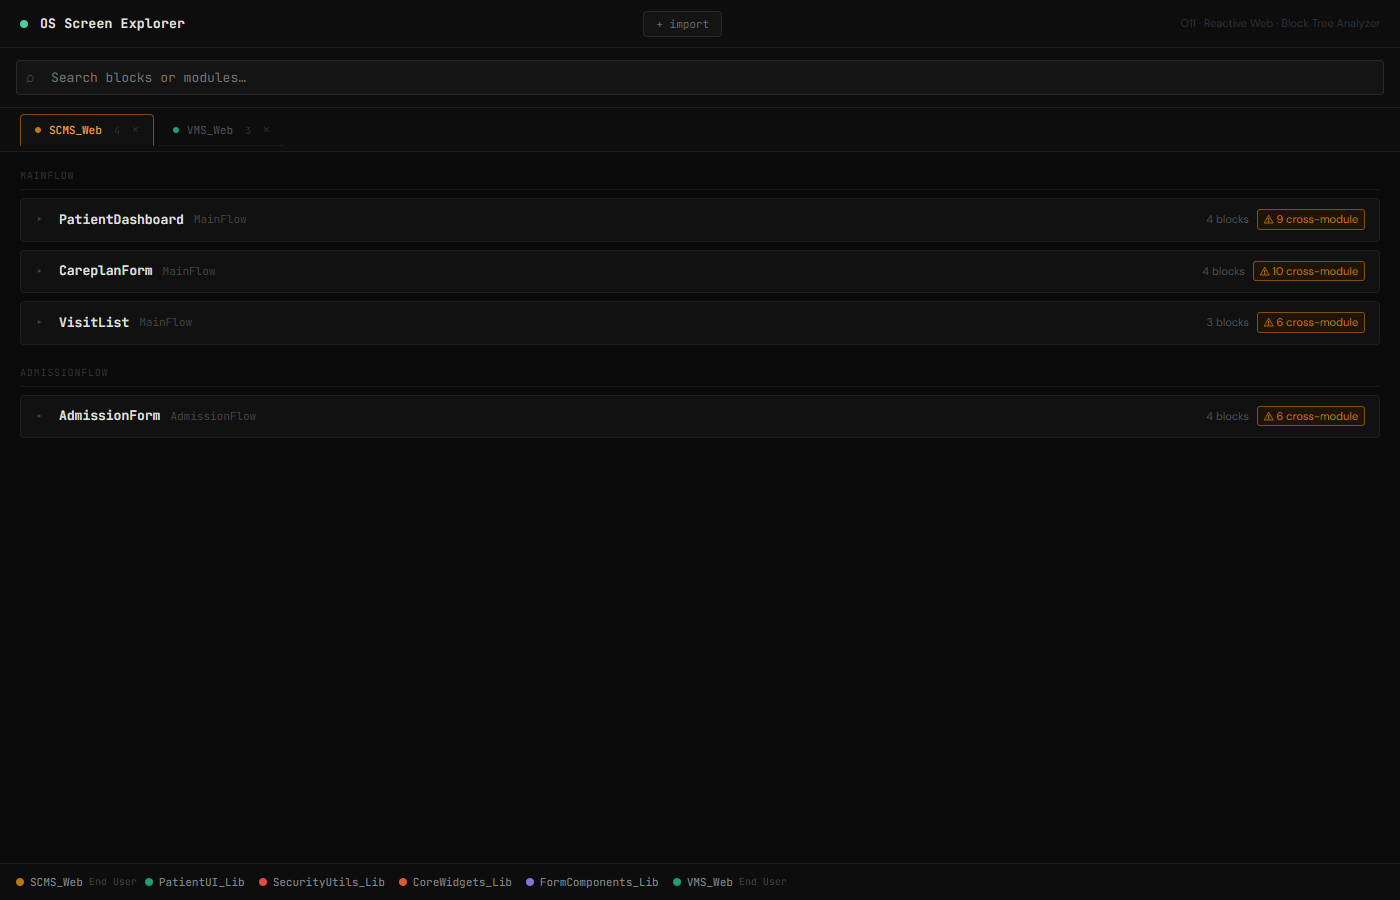
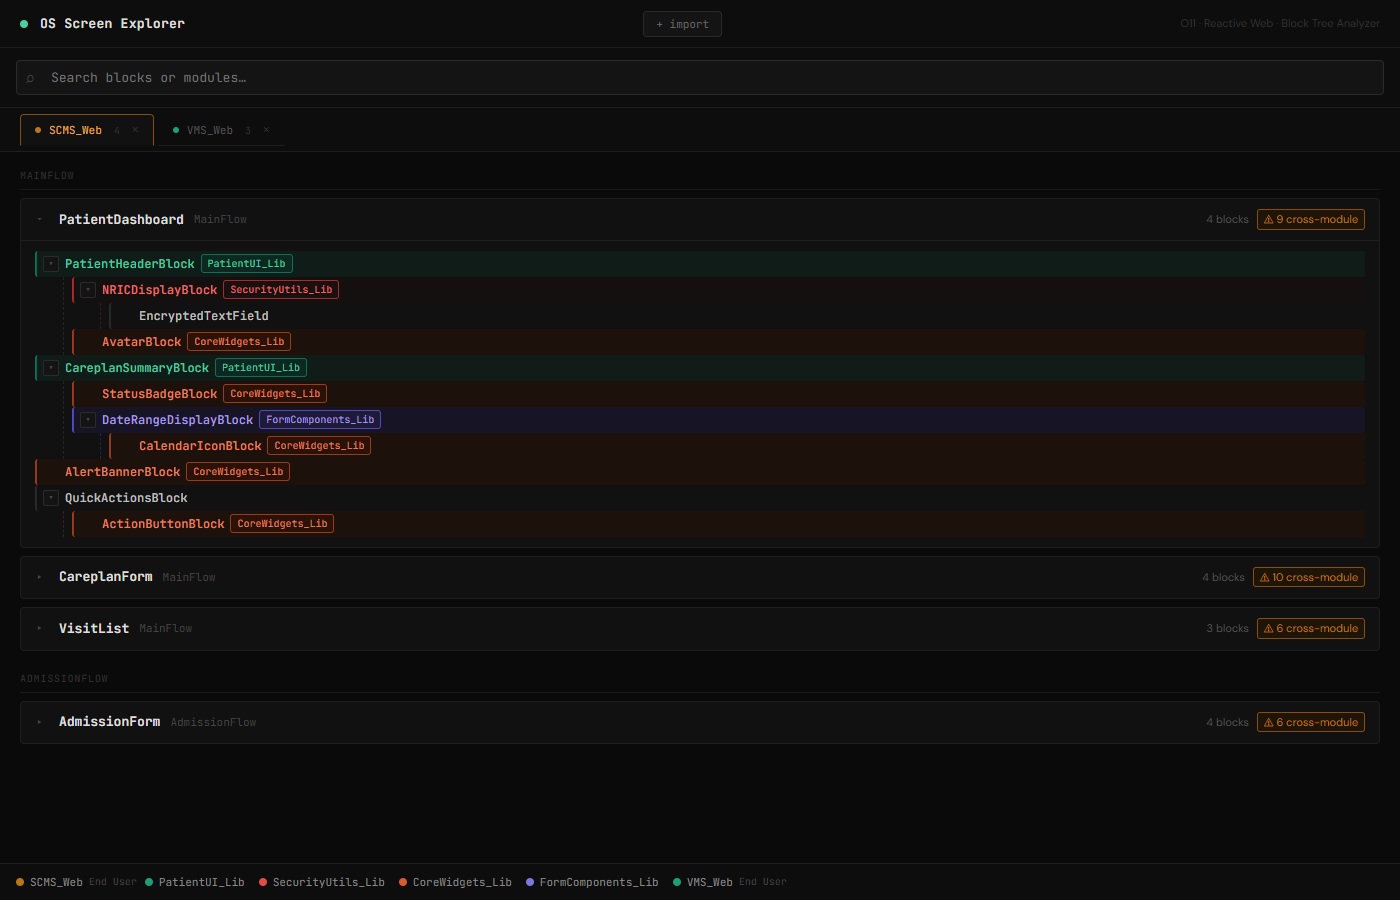
Fix XML parser for actual oml-utilities output format
The CLAUDE.md spec assumed <eSpace name="..."> root, but oml-utilities
actually outputs <OML><eSpaceFragment FragmentName="..."> fragments.

Key changes:
- parseOmlXml.js: complete rewrite to handle fragment-based format
  - Module name derived from filename (not present in XML)
  - Screens via NRNodes.WebScreen in NodesShownInESpaceTree# fragments
  - Local block names via NRNodes.WebBlock keys
  - Cross-module block names via NewRuntime.ReferenceWebBlock (not ReferenceWebBlock)
  - Module names via Reference.Key → Reference.Name from References fragment
  - Block usage via NRWebWidgets.WebBlockInstance.SourceWebBlock attribute
  - Iterates ALL NodesShownInESpaceTree# fragments (some flows not in NRWebFlows)
  - Recursion uses block definition key, not widget instance key
  - Keeps legacy eSpace-root format handling as fallback
- ImportPanel.jsx: pass filename to parseOmlXml() for module name resolution
- drive.mjs: fix screen card expand selector to use ▸ toggle span
- Updated screenshots showing working block tree visualization

diff --git a/src/lib/parseOmlXml.js b/src/lib/parseOmlXml.js
@@ -6,26 +6,218 @@ export function inferType(moduleName) {
   return 'End User'
 }
 
-function getTextContent(parent, tagName) {
-  const el = parent.querySelector(tagName)
-  return el ? el.textContent.trim() : null
+// ── Path parsing helpers ───────────────────────────────────────────────────────
+
+// "NRNodes.WebBlock:/NRWebFlows.ABC/NodesShownInESpaceTree.XYZ"
+//   → { type: 'local', flowKey: 'ABC', nodeKey: 'XYZ' }
+// "NewRuntime.ReferenceWebBlock:/References.ABC/ReferenceNRWebFlows.DEF/ReferenceWebBlocks.XYZ"
+//   → { type: 'ref', refKey: 'ABC', rbKey: 'XYZ' }
+function parseSourceWebBlock(src) {
+  if (!src) return null
+  const refMatch = src.match(/NewRuntime\.ReferenceWebBlock:\/References\.([^/]+)\/ReferenceNRWebFlows\.[^/]+\/ReferenceWebBlocks\.(.+)$/)
+  if (refMatch) return { type: 'ref', refKey: refMatch[1], rbKey: refMatch[2] }
+  const localMatch = src.match(/NRNodes\.WebBlock:\/NRWebFlows\.([^/]+)\/NodesShownInESpaceTree\.(.+)$/)
+  if (localMatch) return { type: 'local', flowKey: localMatch[1], nodeKey: localMatch[2] }
+  return null
 }
 
-function buildRefMap(doc) {
+// ── Fragment extraction ────────────────────────────────────────────────────────
+
+function getFragments(doc) {
+  const frags = {}
+  const all = doc.querySelectorAll('eSpaceFragment')
+  for (const f of all) {
+    const name = f.getAttribute('FragmentName')
+    if (name) frags[name] = f
+  }
+  return frags
+}
+
+// ── Map builders ──────────────────────────────────────────────────────────────
+
+function buildFlowMap(frags) {
+  // flowKey → flowName
+  const map = {}
+  const frag = frags['NRWebFlows']
+  if (!frag) return map
+  for (const el of frag.children) {
+    const key = el.getAttribute('Key')
+    const name = el.getAttribute('Name')
+    if (key && name) map[key] = name
+  }
+  return map
+}
+
+function buildLocalNodeMap(frags) {
+  // nodeKey → { name, type: 'Screen'|'Block', flowKey }
+  const map = {}
+  for (const [fragName, frag] of Object.entries(frags)) {
+    if (!fragName.startsWith('NodesShownInESpaceTree#')) continue
+    const flowKey = fragName.slice('NodesShownInESpaceTree#'.length)
+    for (const el of frag.children) {
+      const tag = el.tagName
+      if (tag !== 'NRNodes.WebScreen' && tag !== 'NRNodes.WebBlock') continue
+      const key = el.getAttribute('Key')
+      const name = el.getAttribute('Name')
+      if (key && name) map[key] = { name, type: tag === 'NRNodes.WebScreen' ? 'Screen' : 'Block', flowKey }
+    }
+  }
+  return map
+}
+
+function buildRefModuleMap(frags) {
+  // refKey → moduleName
+  const map = {}
+  const refFrag = frags['References']
+  if (!refFrag) return map
+  for (const ref of refFrag.children) {
+    const key = ref.getAttribute('Key')
+    const name = ref.getAttribute('Name')
+    if (key && name) map[key] = name
+  }
+  return map
+}
+
+function buildRefBlockMap(frags) {
+  // rbKey → blockName  (elements are NewRuntime.ReferenceWebBlock)
+  const map = {}
+  const refFrag = frags['References']
+  if (!refFrag) return map
+  for (const rwb of refFrag.getElementsByTagName('NewRuntime.ReferenceWebBlock')) {
+    const key = rwb.getAttribute('Key')
+    const name = rwb.getAttribute('Name') || rwb.getAttribute('OriginalName')
+    if (key && name) map[key] = name
+  }
+  return map
+}
+
+// ── Block extraction ──────────────────────────────────────────────────────────
+
+function extractBlockInstances(nodeKey, frags, localNodeMap, refModuleMap, refBlockMap, moduleName, visited = new Set()) {
+  if (visited.has(nodeKey)) return []
+  const widgetFrag = frags[`Widgets#${nodeKey}`]
+  if (!widgetFrag) return []
+
+  const results = []
+  const instances = widgetFrag.getElementsByTagName('NRWebWidgets.WebBlockInstance')
+
+  for (const inst of instances) {
+    const src = inst.getAttribute('SourceWebBlock')
+    const parsed = parseSourceWebBlock(src)
+    if (!parsed) continue
+
+    let blockName = null
+    let sourceModule = null
+
+    if (parsed.type === 'local') {
+      const node = localNodeMap[parsed.nodeKey]
+      blockName = node ? node.name : `[block:${parsed.nodeKey.slice(0, 8)}]`
+      sourceModule = moduleName
+    } else {
+      sourceModule = refModuleMap[parsed.refKey] || `[module:${parsed.refKey.slice(0, 8)}]`
+      blockName = refBlockMap[parsed.rbKey] || null
+      // If block name unknown, skip system UI components silently or show module-scoped fallback
+      if (!blockName) continue
+    }
+
+    // For local blocks, recurse into the block's own Widgets# fragment using its definition key.
+    // For cross-module blocks, the definition lives in another module's XML — no recursion possible.
+    const recurseKey = parsed.type === 'local' ? parsed.nodeKey : null
+    const childVisited = new Set(visited)
+    childVisited.add(nodeKey)
+    const nestedBlocks = recurseKey
+      ? extractBlockInstances(recurseKey, frags, localNodeMap, refModuleMap, refBlockMap, sourceModule, childVisited)
+      : []
+
+    results.push({ name: blockName, sourceModule, blocks: nestedBlocks })
+  }
+
+  return results
+}
+
+// ── Main parser ───────────────────────────────────────────────────────────────
+
+export function parseOmlXml(xmlString, fileName) {
+  const parser = new DOMParser()
+  const doc = parser.parseFromString(xmlString, 'application/xml')
+
+  const parseError = doc.querySelector('parsererror')
+  if (parseError) throw new Error('XML parse error: ' + parseError.textContent.slice(0, 200))
+
+  // Detect format: legacy eSpace-rooted vs oml-utilities fragment format
+  const eSpaceRoot = doc.querySelector('eSpace')
+  const omlRoot = doc.querySelector('OML')
+
+  if (!eSpaceRoot && !omlRoot) {
+    throw new Error('Unrecognised XML format — expected <OML> (oml-utilities output) or <eSpace> root.')
+  }
+
+  // Legacy format (original CLAUDE.md assumption)
+  if (eSpaceRoot && !omlRoot) {
+    return parseLegacyFormat(doc, eSpaceRoot)
+  }
+
+  // oml-utilities fragment format
+  const moduleName = fileName ? fileName.replace(/\.[^.]+$/, '') : 'UnknownModule'
+  return parseFragmentFormat(doc, moduleName)
+}
+
+// ── Legacy format (eSpace root) ───────────────────────────────────────────────
+
+function parseLegacyFormat(doc, eSpace) {
+  const moduleName = eSpace.getAttribute('name') || 'UnknownModule'
   const refMap = {}
-  const refs = doc.querySelectorAll('Reference')
-  for (const ref of refs) {
-    const kind = getTextContent(ref, 'ReferenceKind')
+  for (const ref of doc.querySelectorAll('Reference')) {
+    const kind = ref.querySelector('ReferenceKind')?.textContent?.trim()
     if (kind === 'Block' || kind === 'WebBlock') {
-      const name = getTextContent(ref, 'OriginalName')
-      const mod = getTextContent(ref, 'OriginalModuleName')
+      const name = ref.querySelector('OriginalName')?.textContent?.trim()
+      const mod = ref.querySelector('OriginalModuleName')?.textContent?.trim()
       if (name && mod) refMap[name] = mod
     }
   }
-  return refMap
+  const screenEls = doc.querySelectorAll('Screen, WebScreen')
+  const screens = []
+  for (const screenEl of screenEls) {
+    const name = screenEl.getAttribute('name')
+    if (!name) continue
+    let flow = 'MainFlow'
+    let parent = screenEl.parentElement
+    while (parent && parent !== eSpace) {
+      if (parent.tagName === 'UIFlow') { flow = parent.getAttribute('name') || 'MainFlow'; break }
+      parent = parent.parentElement
+    }
+    screens.push({ name, flow, blocks: extractLegacyBlocks(screenEl, moduleName, refMap) })
+  }
+  return { name: moduleName, type: inferType(moduleName), screens }
 }
 
-function isBlockWidget(el) {
+function extractLegacyBlocks(el, ownerModule, refMap, visited = new Set()) {
+  const results = []
+  for (const child of el.children) {
+    if (isLegacyBlockWidget(child)) {
+      let blockName = null, sourceModule = null
+      if (child.tagName === 'BlockWidget') {
+        blockName = child.getAttribute('BlockName')
+        sourceModule = child.getAttribute('ModuleName')
+      } else {
+        const props = child.querySelector('WebBlockWidgetProperties')
+        if (props) { blockName = props.querySelector('BlockName')?.textContent?.trim(); sourceModule = props.querySelector('SourceModule')?.textContent?.trim() }
+        else { blockName = child.querySelector('BlockName')?.textContent?.trim() || child.getAttribute('Name'); sourceModule = child.querySelector('ModuleName')?.textContent?.trim() }
+      }
+      if (!blockName) continue
+      sourceModule = sourceModule || refMap[blockName] || ownerModule
+      const key = `${blockName}@${sourceModule}`
+      if (visited.has(key)) continue
+      const nv = new Set(visited); nv.add(key)
+      results.push({ name: blockName, sourceModule, blocks: extractLegacyBlocks(child, sourceModule, refMap, nv) })
+    } else {
+      results.push(...extractLegacyBlocks(child, ownerModule, refMap, visited))
+    }
+  }
+  return results
+}
+
+function isLegacyBlockWidget(el) {
   const tag = el.tagName
   if (tag === 'BlockWidget') return true
   if (tag === 'Widget') {
@@ -33,101 +225,40 @@ function isBlockWidget(el) {
     const xsiType = el.getAttribute('xsi:type') || el.getAttributeNS('http://www.w3.org/2001/XMLSchema-instance', 'type')
     if (kind === 'Block' || kind === 'WebBlock') return true
     if (xsiType && (xsiType.includes('BlockWidget') || xsiType.includes('WebBlockWidget'))) return true
-    // Pattern 4: Widget with WebBlockWidgetProperties child
     if (el.querySelector('WebBlockWidgetProperties')) return true
   }
   return false
 }
 
-function extractBlocksFromElement(el, ownerModule, refMap, visited = new Set()) {
-  const results = []
-  const children = Array.from(el.children)
+// ── Fragment format (oml-utilities output) ────────────────────────────────────
 
-  for (const child of children) {
-    if (isBlockWidget(child)) {
-      let blockName = null
-      let sourceModule = null
+function parseFragmentFormat(doc, moduleName) {
+  const frags = getFragments(doc)
+  const flowMap = buildFlowMap(frags)
+  const localNodeMap = buildLocalNodeMap(frags)
+  const refModuleMap = buildRefModuleMap(frags)
+  const refBlockMap = buildRefBlockMap(frags)
 
-      if (child.tagName === 'BlockWidget') {
-        blockName = child.getAttribute('BlockName')
-        sourceModule = child.getAttribute('ModuleName')
-      } else {
-        // Widget element — try all patterns
-        const props = child.querySelector('WebBlockWidgetProperties')
-        if (props) {
-          blockName = getTextContent(props, 'BlockName')
-          sourceModule = getTextContent(props, 'SourceModule')
-        } else {
-          blockName = getTextContent(child, 'BlockName') || child.getAttribute('Name')
-          sourceModule = getTextContent(child, 'ModuleName')
-        }
-      }
-
-      if (!blockName) continue
-
-      sourceModule = sourceModule || refMap[blockName] || ownerModule
-
-      // Guard against infinite recursion (shouldn't happen in OutSystems)
-      const nodeKey = `${blockName}@${sourceModule}`
-      if (visited.has(nodeKey)) continue
-      const nextVisited = new Set(visited)
-      nextVisited.add(nodeKey)
-
-      const nestedBlocks = extractBlocksFromElement(child, sourceModule, refMap, nextVisited)
-      results.push({ name: blockName, sourceModule, blocks: nestedBlocks })
-    } else {
-      // Recurse into non-block container children
-      const nested = extractBlocksFromElement(child, ownerModule, refMap, visited)
-      results.push(...nested)
-    }
-  }
-
-  return results
-}
-
-export function parseOmlXml(xmlString) {
-  const parser = new DOMParser()
-  const doc = parser.parseFromString(xmlString, 'text/xml')
-
-  const parseError = doc.querySelector('parsererror')
-  if (parseError) {
-    throw new Error('XML parse error: ' + parseError.textContent.slice(0, 200))
-  }
-
-  const eSpace = doc.querySelector('eSpace')
-  if (!eSpace) {
-    throw new Error('No <eSpace> root element found — is this an oml-utilities XML output?')
-  }
-
-  const moduleName = eSpace.getAttribute('name') || 'UnknownModule'
-  const refMap = buildRefMap(doc)
-
-  // Find all screens — both Reactive (Screen) and Traditional Web (WebScreen)
-  const screenEls = Array.from(doc.querySelectorAll('Screen, WebScreen'))
   const screens = []
+  const PREFIX = 'NodesShownInESpaceTree#'
 
-  for (const screenEl of screenEls) {
-    const name = screenEl.getAttribute('name')
-    if (!name) continue
+  // Iterate ALL NodesShownInESpaceTree fragments — not just those whose key is
+  // in NRWebFlows, because some flows (e.g. system/auth flows) are missing there.
+  for (const [fragName, nodesFrag] of Object.entries(frags)) {
+    if (!fragName.startsWith(PREFIX)) continue
+    const flowKey = fragName.slice(PREFIX.length)
+    const flowName = flowMap[flowKey] || 'MainFlow'
 
-    // Walk up to find UIFlow name
-    let flow = 'MainFlow'
-    let parent = screenEl.parentElement
-    while (parent && parent !== eSpace) {
-      if (parent.tagName === 'UIFlow') {
-        flow = parent.getAttribute('name') || 'MainFlow'
-        break
-      }
-      parent = parent.parentElement
+    for (const el of nodesFrag.children) {
+      if (el.tagName !== 'NRNodes.WebScreen') continue
+      const screenKey = el.getAttribute('Key')
+      const screenName = el.getAttribute('Name')
+      if (!screenKey || !screenName) continue
+
+      const blocks = extractBlockInstances(screenKey, frags, localNodeMap, refModuleMap, refBlockMap, moduleName)
+      screens.push({ name: screenName, flow: flowName, blocks })
     }
-
-    const blocks = extractBlocksFromElement(screenEl, moduleName, refMap)
-    screens.push({ name, flow, blocks })
   }
 
-  return {
-    name: moduleName,
-    type: inferType(moduleName),
-    screens,
-  }
+  return { name: moduleName, type: inferType(moduleName), screens }
 }

diff --git a/src/components/ImportPanel.jsx b/src/components/ImportPanel.jsx
@@ -254,7 +254,7 @@ export default function ImportPanel({ onModulesLoaded }) {
     for (const f of xmlFiles) {
       try {
         const text = await f.text()
-        const mod = parseOmlXml(text)
+        const mod = parseOmlXml(text, f.name)
         modules.push(mod)
       } catch (e) {
         errs.push(`${f.name}: ${e.message}`)
